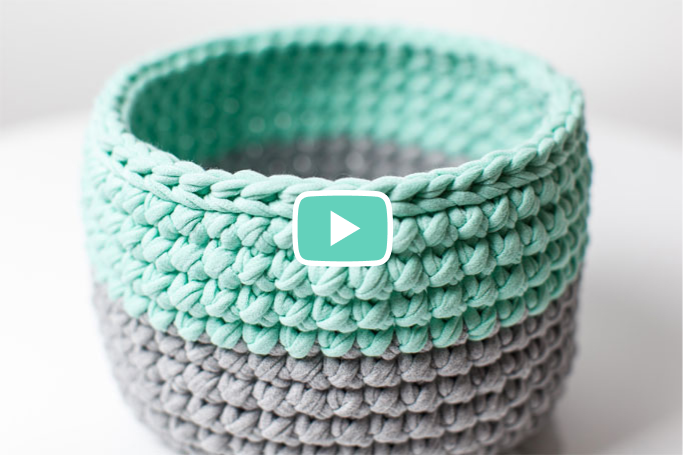
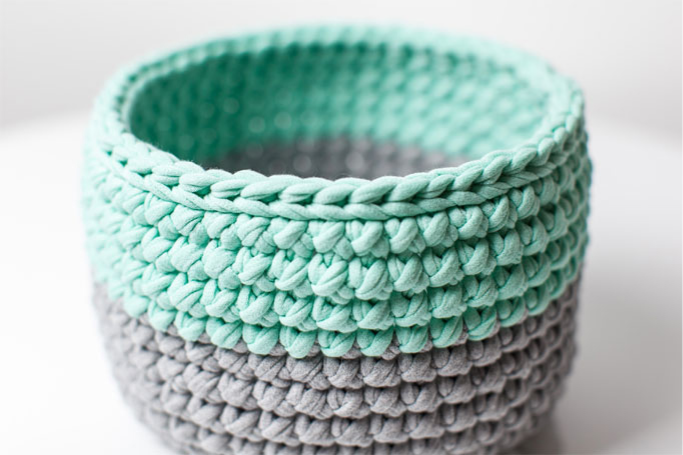
Добавляет адаптивные декоративные элементы

Changed region(s): [[0.4305, 0.4, 0.5842, 0.5846]]

diff --git a/source/catalog.html b/source/catalog.html
@@ -82,7 +82,7 @@
               <p class="product-card__price">1 200 руб.</p>
               <a class="product-card__button" href="#">
                 <svg class="product-card__icon" width="21" height="18" viewBox="0 0 21 18">
-                  <path opacity=".2"
+                  <path
                     d="M20.1884 6.85716h-3.5507L13.1884.380944c-.2029-.3809526-.6087-.4761791-1.0145-.2857028-.4058.1904758-.5072.5714288-.3043.9523788l3.1449 5.80954H5.7826l3.14493-5.80954c.2029-.38095.00001-.761903-.30433-.9523788-.4058-.1904763-.8116-.0000117-1.0145.2857028L4.1594 6.85716H.811583C.405785 6.85716 0 7.14286 0 7.61905c0 .38095.304336.76189.811583.76189h.202907l.91304 2.85716c-.2029.0952-.30436.2857-.30436.5714 0 .381.30436.6667.71015.6667L4.05797 18H16.942l1.7247-5.5238c.4058 0 .7101-.2857.7101-.6667 0-.1905-.1014-.4762-.3043-.5714l.913-2.85716h.2029c.4058 0 .8116-.2857.8116-.76189 0-.47619-.4058-.76189-.8116-.76189Zm-4.5652 9.61904H5.07247L3.85506 12.381H16.942l-1.3188 4.0952Zm1.6232-5.5238H3.34782l-.81159-2.66667H18.058l-.8116 2.66667Z" />
                 </svg>
                 <span class="visually-hidden">Добавить в корзину</span>
@@ -109,7 +109,7 @@
               <p class="product-card__price">690 руб.</p>
               <a class="product-card__button" href="#">
                 <svg class="product-card__icon" width="21" height="18" viewBox="0 0 21 18">
-                <path opacity=".2"
+                <path
                   d="M20.1884 6.85716h-3.5507L13.1884.380944c-.2029-.3809526-.6087-.4761791-1.0145-.2857028-.4058.1904758-.5072.5714288-.3043.9523788l3.1449 5.80954H5.7826l3.14493-5.80954c.2029-.38095.00001-.761903-.30433-.9523788-.4058-.1904763-.8116-.0000117-1.0145.2857028L4.1594 6.85716H.811583C.405785 6.85716 0 7.14286 0 7.61905c0 .38095.304336.76189.811583.76189h.202907l.91304 2.85716c-.2029.0952-.30436.2857-.30436.5714 0 .381.30436.6667.71015.6667L4.05797 18H16.942l1.7247-5.5238c.4058 0 .7101-.2857.7101-.6667 0-.1905-.1014-.4762-.3043-.5714l.913-2.85716h.2029c.4058 0 .8116-.2857.8116-.76189 0-.47619-.4058-.76189-.8116-.76189Zm-4.5652 9.61904H5.07247L3.85506 12.381H16.942l-1.3188 4.0952Zm1.6232-5.5238H3.34782l-.81159-2.66667H18.058l-.8116 2.66667Z" />
                 </svg>
                 <span class="visually-hidden">Добавить в корзину</span>
@@ -136,7 +136,7 @@
               <p class="product-card__price">1 500 руб.</p>
               <a class="product-card__button" href="#">
                 <svg class="product-card__icon" width="21" height="18" viewBox="0 0 21 18">
-                <path opacity=".2"
+                <path
                   d="M20.1884 6.85716h-3.5507L13.1884.380944c-.2029-.3809526-.6087-.4761791-1.0145-.2857028-.4058.1904758-.5072.5714288-.3043.9523788l3.1449 5.80954H5.7826l3.14493-5.80954c.2029-.38095.00001-.761903-.30433-.9523788-.4058-.1904763-.8116-.0000117-1.0145.2857028L4.1594 6.85716H.811583C.405785 6.85716 0 7.14286 0 7.61905c0 .38095.304336.76189.811583.76189h.202907l.91304 2.85716c-.2029.0952-.30436.2857-.30436.5714 0 .381.30436.6667.71015.6667L4.05797 18H16.942l1.7247-5.5238c.4058 0 .7101-.2857.7101-.6667 0-.1905-.1014-.4762-.3043-.5714l.913-2.85716h.2029c.4058 0 .8116-.2857.8116-.76189 0-.47619-.4058-.76189-.8116-.76189Zm-4.5652 9.61904H5.07247L3.85506 12.381H16.942l-1.3188 4.0952Zm1.6232-5.5238H3.34782l-.81159-2.66667H18.058l-.8116 2.66667Z" />
                 </svg>
                 <span class="visually-hidden">Добавить в корзину</span>
@@ -150,11 +150,14 @@
     <section class="production">
       <div class="production__wrapper">
         <h2 class="production__title">Процесс производства</h2>
-      <a class="production__video" href="#">
-        <img class="production__image production__image--phone" src="./img/video_preview-phone.png" alt="Видео изготовления корзинки">
-        <img class="production__image production__image--tablet" src="./img/video_preview-tablet.png" alt="Видео изготовления корзинки">
-        <img class="production__image production__image--desktop" src="./img/video_preview-desktop.png" alt="Видео изготовления корзинки">
-      </a>
+        <div class="production__video-wrapper">
+          <video class="production__video production__video--phone" src="#" poster="./img/video_preview-phone.png"></video>
+          <video class="production__video production__video--tablet" src="#" poster="./img/video_preview-tablet.png"></video>
+          <video class="production__video production__video--desktop" src="#" poster="./img/video_preview-desktop.png"></video>
+          <button class="production__video-button" type="button">
+            <svg class="production__video-icon" width="102" height="78" viewBox="0 0 102 78" fill="none"><path d="M98.25 18.34s-.91-7.1-3.85-10.24c-3.65-4.05-7.81-4.15-9.64-4.35C71.28 2.74 51 2.74 51 2.74h-.1s-20.28 0-33.76 1c-1.93.21-5.99.31-9.64 4.36-2.84 3.14-3.85 10.24-3.85 10.24s-.91 8.3-.91 16.6v7.81c0 8.3.91 16.61.91 16.61s.91 7.1 3.85 10.23c3.65 4.06 8.52 3.96 10.65 4.36 7.7.81 32.85 1.01 32.85 1.01s20.28 0 33.76-1c1.93-.21 5.99-.31 9.64-4.37 2.83-3.14 3.85-10.23 3.85-10.23s.91-8.3.91-16.61v-7.8c0-8.3-.91-16.61-.91-16.61Z" fill="#63D1BB"/><path d="M50.9 77.8c-1.02 0-25.35-.3-33.06-1.01h-.2c-.3-.1-.7-.1-1.11-.2-2.54-.3-7.3-.92-10.95-5.07C2.13 67.87 1.12 60.58 1 59.77c0-.3-1.01-8.61-1.01-16.92v-7.8c0-8.4.91-16.61.91-16.92v-.1c.1-.8 1.22-8 4.57-11.75a15.63 15.63 0 0 1 10.84-5.17c.2 0 .41 0 .51-.1h.1C30.42 0 50.7 0 50.9 0h.1c.2 0 20.48 0 33.97 1.01h.1c.2 0 .3 0 .5.1 2.24.2 6.8.71 10.85 5.17 3.45 3.65 4.47 10.94 4.57 11.75 0 .3 1.01 8.61 1.01 17.02v7.8c0 8.4-.91 16.61-1.01 16.92v.1c-.1.81-1.22 8.1-4.57 11.75a15.63 15.63 0 0 1-10.85 5.17c-.2 0-.4 0-.5.1h-.1c-13.49.91-33.87.91-34.07.91Zm-32.35-6.48c7.6.7 31.64 1.01 32.45 1.01.71 0 20.38 0 33.46-1.01.2 0 .4 0 .6-.1 1.83-.2 4.67-.51 7.3-3.35 1.83-2.02 2.95-6.99 3.15-8.71.1-.5.91-8.5.91-16.3v-7.81c0-7.9-.9-15.8-1.01-16.3-.3-2.44-1.42-6.9-3.14-8.62-2.64-2.94-5.48-3.14-7.3-3.34-.2 0-.4 0-.61-.1C71.08 5.67 51.1 5.67 50.9 5.67h-.1c-.2 0-20.28 0-33.46 1.02-.2 0-.4 0-.61.1-1.83.2-4.66.5-7.3 3.34-1.83 2.03-2.94 6.99-3.14 8.71-.1.61-.92 8.51-.92 16.31v7.8c0 7.8.92 15.8.92 16.31.3 2.43 1.42 6.89 3.14 8.61 2.33 2.64 5.37 3.04 7.6 3.35.61-.1 1.02 0 1.52.1Z" fill="#fff"/><path d="M38.83 20.77v36.16L69.05 38.9 38.83 20.77Z" fill="#fff"/></svg>
+          </button>
+        </div>
       <p class="production__description">
         По просьбам наших любимых фолловеров мы сняли для вас подробное видео о том, как появляются наши товары.
       </p>

diff --git a/source/less/blocks/production.less b/source/less/blocks/production.less
@@ -3,6 +3,14 @@
   margin: 0 30px 19px 30px;
   min-width: 260px;
   border: 1px solid #ececec;
+
+  &:hover {
+    box-shadow: 0 6px 10px rgba(0, 0, 0, 0.1);
+  }
+
+  &:active {
+    box-shadow: 0 3px 5px rgba(0, 0, 0, 0.1);
+  }
 }
 
 .production__title {
@@ -11,8 +19,32 @@
   padding: 21px 13px 27px 91px;
 }
 
-.production__video {
+.production__video-wrapper {
   line-height: 0;
+  position: relative;
+  margin: 0 auto;
+}
+
+.production__video-button {
+  position: absolute;
+  border: 0;
+  margin: 0;
+  padding: 0;
+  background-color: transparent;
+  top: 50%;
+  left: 50%;
+  transform: translate(-50%, -50%);
+}
+
+.production__video-icon {
+  &:hover {
+    transform: scale(1.2);
+  }
+
+  &:active {
+    transform: scale(0.8);
+    opacity: 0.3;
+  }
 }
 
 .production__description {
@@ -31,8 +63,8 @@
     min-height: 503px;
   }
 
-  .production__image--tablet,
-  .production__image--desktop {
+  .production__video--tablet,
+  .production__video--desktop {
     display: none;
   }
 }
@@ -42,8 +74,8 @@
     grid-row: 2 / 3;
   }
 
-  .production__image--phone,
-  .production__image--desktop {
+  .production__video--phone,
+  .production__video--desktop {
     display: none;
   }
 }
@@ -86,13 +118,13 @@
     padding: 96px 57px 29px 79px;
   }
 
-  .production__video {
+  .production__video-wrapper {
     grid-column: 1 / 2;
     grid-row: 1 / 4;
   }
 
-  .production__image--phone,
-  .production__image--tablet {
+  .production__video--phone,
+  .production__video--tablet {
     display: none;
   }
 

diff --git a/source/less/blocks/product-card.less b/source/less/blocks/product-card.less
@@ -4,6 +4,14 @@
   border: 1px solid #ececec;
   min-width: 260px;
   min-height: 374px;
+
+  &:hover .product-card__content {
+    box-shadow: 0 6px 10px rgba(0, 0, 0, 0.1);
+  }
+
+  &:active .product-card__content {
+    box-shadow: 0 3px 5px rgba(0, 0, 0, 0.1);
+  }
 }
 
 .product-card__link {
@@ -16,6 +24,8 @@
   flex-direction: column;
   justify-content: space-between;
   padding: 28px;
+  min-width: 260px;
+  box-sizing: border-box;
 }
 
 .product-card__title {
@@ -23,6 +33,14 @@
   margin: 0;
   margin-bottom: 6px;
   text-decoration: none;
+
+  &:hover {
+    color: fade(@bold-text-color, 60%);
+  }
+
+  &:active {
+    color: fade(@bold-text-color, 30%);
+  }
 }
 
 .product-card__description {
@@ -41,6 +59,18 @@
 .product-card__price {
   .font-style-title(700; 15px; 24px; @bold-text-color);
   margin: 0;
+}
+
+.product-card__icon {
+  fill: fade(@bold-text-color, 20%);
+
+  &:hover {
+    fill: fade(@base-color, 100%);
+  }
+
+  &:active {
+    fill: fade(@base-color, 30%);
+  }
 }
 
 @media (max-width: @mobile-width-only) {
